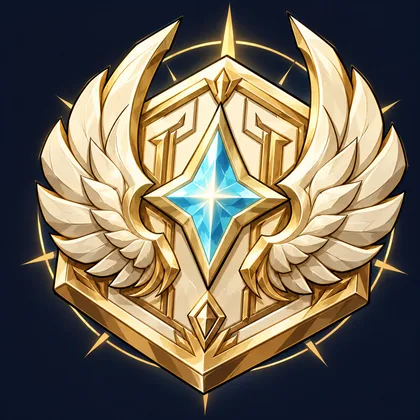
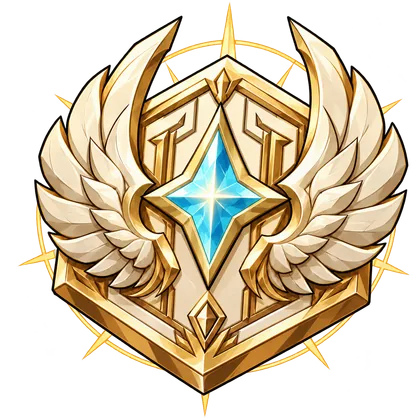
fix(armory): preserve transparent crafting currency artwork
Install all six approved alpha masters and regenerate prepared art.

Remove currency fills and clipping while retaining selection, counts and pickup positioning.

User-Facing: yes

diff --git a/src/features/alchemy/meta/screens/armory/armory-currency-targeting.tsx b/src/features/alchemy/meta/screens/armory/armory-currency-targeting.tsx
@@ -1,16 +1,6 @@
 import { useEffect, useLayoutEffect, useRef, useState } from "react";
 import { createPortal } from "react-dom";
 import { getCraftingCurrencyDefinition, type CraftingCurrencyId } from "@/lib/gear";
-import { cn } from "@/lib/utils";
-
-const CURRENCY_CURSOR_STYLES: Record<CraftingCurrencyId, { className: string }> = {
-  "discordant-dice": { className: "bg-violet-950" },
-  "sprig-of-growth": { className: "bg-emerald-950" },
-  voidstone: { className: "bg-slate-950" },
-  "ascension-seal": { className: "bg-amber-950" },
-  "severance-maw": { className: "bg-red-950" },
-  "smiths-whetstone": { className: "bg-stone-950" },
-};
 
 interface CursorPoint {
   x: number;
@@ -97,10 +87,7 @@ export function ArmoryCurrencyCursor({ activeCurrencyId }: { activeCurrencyId: C
     <div
       ref={cursorRef}
       data-testid="armory-crafting-cursor"
-      className={cn(
-        "armory-currency-cursor pointer-events-none fixed z-[130] translate-x-4 translate-y-4 overflow-hidden rounded-xl",
-        CURRENCY_CURSOR_STYLES[activeCurrencyId].className,
-      )}
+      className="armory-currency-cursor pointer-events-none fixed z-[130] translate-x-4 translate-y-4"
     >
       <img src={activeCurrency.art} alt="" decoding="async" className="h-full w-full object-cover" />
     </div>,

diff --git a/src/features/alchemy/shared/ui/currency-chip.tsx b/src/features/alchemy/shared/ui/currency-chip.tsx
@@ -48,7 +48,7 @@ export function CurrencyChip({
     ? i18n.text("currency.available", "{{name}}, {{count}} available", { name, count })
     : i18n.text("currency.count", "{{name}}, {{count}}", { name, count });
   const className = cn(
-    "armory-currency-art relative block overflow-hidden rounded-xl border border-border/80 bg-black",
+    "armory-currency-art relative block rounded-xl border border-border/80",
     armed && surfaceSelectedRingClass,
     disabled && "opacity-50",
   );

diff --git a/Docs/WORKFLOWS-ASSETS.md b/Docs/WORKFLOWS-ASSETS.md
@@ -151,10 +151,10 @@ Full-frame environment with no character focus. Exaggerated perspective and stre
 A clear weapon, armor, accessory or trinket silhouette on a 3:4 or square canvas. Dramatic three-quarter perspective and strong foreshortening, angular material design, weight and tension, with sharp highlights on metal, gems or leather. Tactile hand-drawn physical depth; no photorealism, 3D rendering or fine filigree.
 ```
 
-### Crafting Currencies & Artifacts (Opaque background)
+### Crafting Currencies (Transparent background)
 
 ```text
-One distinctive object occupying 80–88% of a square on a quiet opaque dark ink/charcoal background. Broad features, minimal decorative microtexture, two or three major shading steps. No text, runes or realistic photography.
+One distinctive object occupying 80–88% of a square with a genuinely transparent alpha background. Preserve dark internal shading and the full illustrated silhouette; no ground, panel or backdrop. Broad features, minimal decorative microtexture, two or three major shading steps. No text, runes or realistic photography.
 ```
 
 ### Inventory Resources, Mana & UI Icons (Transparent background)
@@ -200,12 +200,12 @@ superseded studies, approval transcripts and duplicate sources. Use ignored
 in [design inputs](./design/README.md).
 
 Homestead resource masters live in `2d Assets/Game Sources/Items/Resources/`; crafting
-currency PNG masters live in `2d Assets/Game Sources/Items/Crafting/`. Resources and battle Mana
-use transparent backgrounds, while crafting currencies retain their illustrated
-dark backgrounds. Check the actual alpha channel before importing transparent
+currency PNG masters live in `2d Assets/Game Sources/Items/Crafting/`. Resources, battle Mana
+and the six crafting currencies use transparent backgrounds. Salvage remains a
+separate illustrated action, not a carried currency. Check the actual alpha channel before importing transparent
 art: a visible checkerboard may be baked into an opaque image.
 
-Set `requiresTransparency: true` in the owning art manifest when an image must have a transparent background; omission defaults to false. The eight resource icons, battle Mana, and both piles require it. Preparation and read-only freshness checks validate decoded source and prepared pixels, including cache hits: each must contain fully transparent pixels and visible artwork. The requirement participates in the asset fingerprint. Replacement images are staged and validated before publication; failure preserves that image's previous output and skips manifest publication and orphan removal.
+Set `requiresTransparency: true` in the owning art manifest when an image must have a transparent background; omission defaults to false. The eight resource icons, six crafting currencies, battle Mana, and both piles require it. Preparation and read-only freshness checks validate decoded source and prepared pixels, including cache hits: each must contain fully transparent pixels and visible artwork. The requirement participates in the asset fingerprint. Replacement images are staged and validated before publication; failure preserves that image's previous output and skips manifest publication and orphan removal.
 
 Also inspect approved artwork against light and dark backgrounds. The pixel check rejects opaque checkerboards and empty images but cannot prove that every background pixel is correct. If reference-based image generation repeatedly paints a checkerboard into the image, regenerate without image references using the approved visual description, then repeat pixel and visual checks. Current approved masters remain the authoring sources.
 
